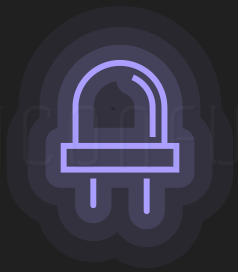
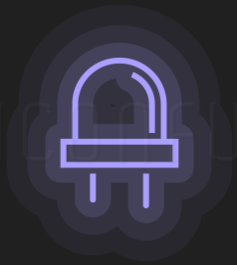
hope no changes

Changed region(s): [[0.3249, 0.2113, 0.6793, 0.3623], [0.2658, 0.6038, 0.7384, 0.6642], [0.2658, 0.5132, 0.7679, 0.5736]]

diff --git a/front/index3.html b/front/index3.html
@@ -34,11 +34,11 @@
 
         <table>
             <tr>
-                <td><img class="led" src="https://raw.githubusercontent.com/RESIOT-2022/API-Web/main/front/images/led_icon_blue.png?token=GHSAT0AAAAAABRZRT5CH664WSG2GGE4RZ66YSWNGRQ"></td>
-                <td><img class="led" src="https://raw.githubusercontent.com/RESIOT-2022/API-Web/main/front/images/led_icon_blue.png?token=GHSAT0AAAAAABRZRT5CH664WSG2GGE4RZ66YSWNGRQ"></td>
-                <td><img class="led" src="https://raw.githubusercontent.com/RESIOT-2022/API-Web/main/front/images/led_icon_blue.png?token=GHSAT0AAAAAABRZRT5CH664WSG2GGE4RZ66YSWNGRQ"></td>
-                <td><img class="led" src="https://raw.githubusercontent.com/RESIOT-2022/API-Web/main/front/images/led_icon_blue.png?token=GHSAT0AAAAAABRZRT5CH664WSG2GGE4RZ66YSWNGRQ"></td>
-                <td><img class="led" src="https://raw.githubusercontent.com/RESIOT-2022/API-Web/main/front/images/led_icon_blue.png?token=GHSAT0AAAAAABRZRT5CH664WSG2GGE4RZ66YSWNGRQ"></td>
+                <td><img id="led1" class="led" src="images/led-blue"></td>
+                <td><img id="led2" class="led" src="images/led-blue"></td>
+                <td><img id="led3" class="led" src="images/led-blue"></td>
+                <td><img id="led4" class="led" src="images/led-blue"></td>
+                <td><img id="led5" class="led" src="images/led-blue"></td>
             </tr>
         </table>
 
@@ -88,9 +88,9 @@
             ProgressBar2.style.width = this.value + "%";
         }
 
+        var led1 = document.getElementById("led1");
         function changeLED(){
-            var img1 = document.getElementById("img1");
-            
+            led1.src = 'images/change'
             var table = document.getElementsByTagName('table')[0]; // ou getElementById()
             var tbody = table.getElementsByTagName('tbody')[0];
             var _td = tbody.getElementsByTagName('td');
@@ -100,6 +100,8 @@
                 }
             }
         }
+        
+        // led1.addEventListener('click', changeLED())
 
         function installEventsOnMyFuckingTable () {
             var table = document.getElementsByTagName('table')[0]; // ou getElementById()
@@ -110,7 +112,7 @@
             var _td2 = tbody2.getElementsByTagName('td');
             for (var i=0 ; i<_td.length ; i++) {
                 _td[i].onclick = function () {
-                alert(this.textContent);
+                    document.getElementById("led1").src = "images/led-orange"
                 }
             }
             for (var i=0 ; i<_td2.length ; i++) {
@@ -151,31 +153,7 @@
             width: 75%;
             cursor: pointer;
         }
-        /*
-        #slider{
-            margin-top: 30px;
-            width: 60%;
-            height: 9px;
-            background: transparent;
-            border-color: transparent;
-            border-width: 6px;
-            color: transparent;
-        }
-        #slider::-ms-fill-lower{
-            background: rgb(178, 26, 26);
-            border-radius: 10px;
-        }
-        #slider::-ms-fill-upper{
-            background: #ddd;
-            border-radius: 10px;
-        }
-        #slider::-ms-thumb{
-            border: none;
-            height: 16px;
-            width: 16px;
-            border-radius: 50%;
-            background: goldenrod;
-        }*/
+        
         input[type=range]{
             -webkit-appearance: none;
             margin-top: 30px;
@@ -189,7 +167,7 @@
 
         input[type=range]::-webkit-slider-thumb{
             -webkit-appearance: none;
-            background: #c5c881 url(./images/button_icon.png);
+            background: #c5c881 url(images/btn-icon);
             border: none;
             height: 20px;
             width: 20px;
@@ -211,7 +189,7 @@
         }
 
         #SelectBtn{
-            background-image: url(./images/button_icon.png);
+            background-image: url(images/btn-icon);
             height: 20px;
             width: 20px;
             background-size: cover;
@@ -249,7 +227,7 @@
         #PowerOff{
             height: 30px;
             width: 30px;
-            background-image: url(./images/poweroff.jpg);
+            background-image: url(images/poweroff);
             background-size: cover;
             background-position: center;
             border-radius: 50%;

diff --git a/front/style3.css b/front/style3.css
@@ -24,8 +24,18 @@ td{
     text-align: center;
 }
 
+.LEDs{
+    display: grid;
+    width: 100%;
+    grid-template-columns: 15% 15% 15% 15% 15%;
+    align-items: start;
+    align-self: center;
+    justify-content: space-between;
+    margin: 0 auto;
+}
+
 .led{
-    width: 75%;
+    width: 100%;
     cursor: pointer;
 }
 /*
